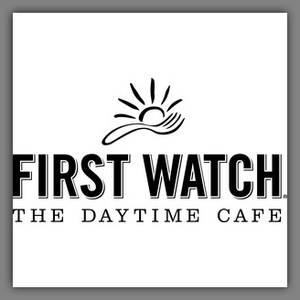
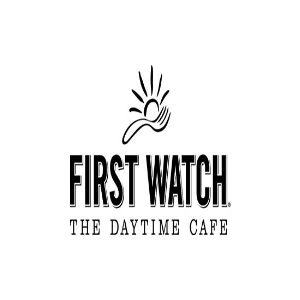
Image Overhaul
- Updated Images to fit theme
- Added Breakfast options

diff --git a/foodRandomizer/main.py b/foodRandomizer/main.py
@@ -64,7 +64,7 @@ class CasualDining(Page):
             8: {"image": "/images/restaurants/fourpeaks.jpg", "website": "https://www.fourpeaks.com"},
             9: {"image": "/images/restaurants/fuzzys.png", "website": "https://www.fuzzystacoshop.com"},
             10: {"image": "/images/restaurants/chuckbox.jpg", "website": "https://www.thechuckbox.com"},
-            11: {"image": "/images/restaurants/ipetes.png", "website": "https://www.ikesplace.com"},
+            11: {"image": "/images/restaurants/ipetes.png", "website": "https://www.ikessandwich.com/"},
             12: {"image": "/images/restaurants/theporch.jpg", "website": "https://www.porcharcadia.com"},
             13: {"image": "/images/restaurants/sauce.jpg", "website": "https://www.saucepizzaandwine.com"},
             14: {"image": "/images/restaurants/cheesecake.png", "website": "https://www.thecheesecakefactory.com"},
@@ -74,6 +74,7 @@ class CasualDining(Page):
             18: {"image": "/images/restaurants/bdubs.png", "website": "https://www.buffalowildwings.com"},
             19: {"image": "/images/restaurants/ogarden.jpg", "website": "https://www.olivegarden.com"},
             20: {"image": "/images/restaurants/bjs.jpg", "website": "https://www.bjsrestaurants.com"},
+            21: {"image": "/images/breakfast/panera.png", "website": "https://www.panerabread.com/en-us/home.html"}
         }
 
         def randomizeNum():
@@ -157,25 +158,26 @@ class FastFood(Page):
         self.fastfood_images = {
             1: {"image": "/images/fast_food/mcdonalds.jpg", "website": "https://www.mcdonalds.com"},
             2: {"image": "/images/fast_food/in-n-out.jpg", "website": "https://www.in-n-out.com"},
-            3: {"image": "/images/fast_food/canes.jpg", "website": "https://www.raisingcanes.com"},
-            4: {"image": "/images/fast_food/c-fil-a.jpg", "website": "https://www.chick-fil-a.com"},
+            3: {"image": "/images/fast_food/canes.png", "website": "https://www.raisingcanes.com"},
+            4: {"image": "/images/fast_food/c-fil-a.png", "website": "https://www.chick-fil-a.com"},
             5: {"image": "/images/fast_food/culvers.jpg", "website": "https://www.culvers.com"},
-            6: {"image": "/images/fast_food/j-in-b.jpg", "website": "https://www.jackinthebox.com"},
+            6: {"image": "/images/fast_food/j-in-b.png", "website": "https://www.jackinthebox.com"},
             7: {"image": "/images/fast_food/sonic.jpg", "website": "https://www.sonicdrivein.com"},
             8: {"image": "/images/fast_food/wendys.jpg", "website": "https://www.wendys.com"},
-            9: {"image": "/images/fast_food/burger-king.jpg", "website": "https://www.bk.com"},
-            10: {"image": "/images/fast_food/chipotle.jpg", "website": "https://www.chipotle.com"},
-            11: {"image": "/images/fast_food/dominos.jpg", "website": "https://www.dominos.com"},
+            9: {"image": "/images/fast_food/burger-king.png", "website": "https://www.bk.com"},
+            10: {"image": "/images/fast_food/chipotle.png", "website": "https://www.chipotle.com"},
+            11: {"image": "/images/fast_food/dominos.png", "website": "https://www.dominos.com"},
             12: {"image": "/images/fast_food/five-guys.jpg", "website": "https://www.fiveguys.com"},
-            13: {"image": "/images/fast_food/ikes.jpg", "website": "https://www.ikesplace.com"},
+            13: {"image": "/images/fast_food/ikes.png", "website": "https://www.ikesplace.com"},
             14: {"image": "/images/fast_food/panda.jpg", "website": "https://www.pandaexpress.com"},
-            15: {"image": "/images/fast_food/pei-wei.jpg", "website": "https://www.peiwei.com"},
+            15: {"image": "/images/fast_food/pei-wei.png", "website": "https://www.peiwei.com"},
             16: {"image": "/images/fast_food/popeyes.jpg", "website": "https://www.popeyes.com"},
-            17: {"image": "/images/fast_food/portillos.jpg", "website": "https://www.portillos.com"},
-            18: {"image": "/images/fast_food/subway.jpg", "website": "https://www.subway.com"},
+            17: {"image": "/images/fast_food/portillos.png", "website": "https://www.portillos.com"},
+            18: {"image": "/images/fast_food/subway.png", "website": "https://www.subway.com"},
             19: {"image": "/images/fast_food/whataburger.jpg", "website": "https://www.whataburger.com"},
             20: {"image": "/images/fast_food/wingstop.jpg", "website": "https://www.wingstop.com"},
-            21: {"image": "/images/fast_food/tacobell.jpg", "website": "https://www.tacobell.com"}
+            21: {"image": "/images/fast_food/tacobell.jpg", "website": "https://www.tacobell.com"},
+            22: {"image": "/images/breakfast/panera.png", "website": "https://www.panerabread.com/en-us/home.html"}
         }
         
         def randomizeNum():
@@ -253,19 +255,25 @@ class BreakfastFood(Page):
         # Define a dictionary to map breakfast numbers to image paths and websites
         self.breakfast_images = {
             0: {"image": "/images/question-mark.gif", "website": "http://www.jameszanetti.com"},
-            1: {"image": "/images/breakfast/snooze.jpg", "website": "http://www.snooze.com"},
-            2: {"image": "/images/breakfast/crepe-club.jpg", "website": "https://www.thecrepeclub.com/"},
-            3: {"image": "/images/breakfast/einsteins.jpg", "website": "https://www.einsteinbros.com/"},
+            1: {"image": "/images/breakfast/snooze.png", "website": "http://www.snooze.com"},
+            2: {"image": "/images/breakfast/crepe-club.png", "website": "https://www.thecrepeclub.com/"},
+            3: {"image": "/images/breakfast/einsteins.png", "website": "https://www.einsteinbros.com/"},
             4: {"image": "/images/breakfast/morning-squeeze.jpg", "website": "http://www.morningsqueeze.com"},
             5: {"image": "/images/breakfast/sunnys.jpg", "website": "http://www.sunnys.com"},
             6: {"image": "/images/breakfast/first-watch.jpg", "website": "http://www.firstwatch.com"},
-            7: {"image": "/images/breakfast/nektar.jpg", "website": "http://www.nektar.com"},
+            7: {"image": "/images/breakfast/nektar.png", "website": "http://www.nektar.com"},
             8: {"image": "/images/breakfast/starbucks.jpg", "website": "http://www.starbucks.com"},
             9: {"image": "/images/breakfast/dutch.jpg", "website": "http://www.dutchbros.com"},
-            10: {"image": "/images/breakfast/jamba.jpg", "website": "http://www.jamba.com"},
+            10: {"image": "/images/breakfast/jamba.png", "website": "http://www.jamba.com"},
             11: {"image": "/images/fast_food/mcdonalds.jpg", "website": "http://www.mcdonalds.com"},
-            12: {"image": "/images/fast_food/c-fil-a.jpg", "website": "http://www.chick-fil-a.com"},
-            13: {"image": "/images/breakfast/ihop.jpg", "website": "http://www.ihop.com"}
+            12: {"image": "/images/fast_food/c-fil-a.png", "website": "http://www.chick-fil-a.com"},
+            13: {"image": "/images/breakfast/ihop.png", "website": "http://www.ihop.com"},
+            14: {"image": "/images/breakfast/eggstacy.png", "website": "https://eggstasyaz.com/"},
+            15: {"image": "/images/breakfast/br.png", "website": "https://br.coffee/"},
+            16: {"image": "/images/breakfast/egg-joe.png", "website": "https://eggnjoe.com/"},
+            17: {"image": "/images/breakfast/panera.png", "website": "https://www.panerabread.com/en-us/home.html"},
+            18: {"image": "/images/breakfast/black-bear.jpg", "website": "https://blackbeardiner.com/"},
+            19: {"image": "/images/breakfast/mimis.jpg", "website": "https://www.mimiscafe.com/"}
         }
         
         #add label to top of the window as program title
@@ -278,7 +286,7 @@ class BreakfastFood(Page):
         self.dir_path = os.path.dirname(os.path.realpath(__file__))
         
         def randomizeNum():
-            temp = randint(1,13)
+            temp = randint(1,19)
             self.someNumber = temp
 
             # Get the dictionary for the selected breakfast
